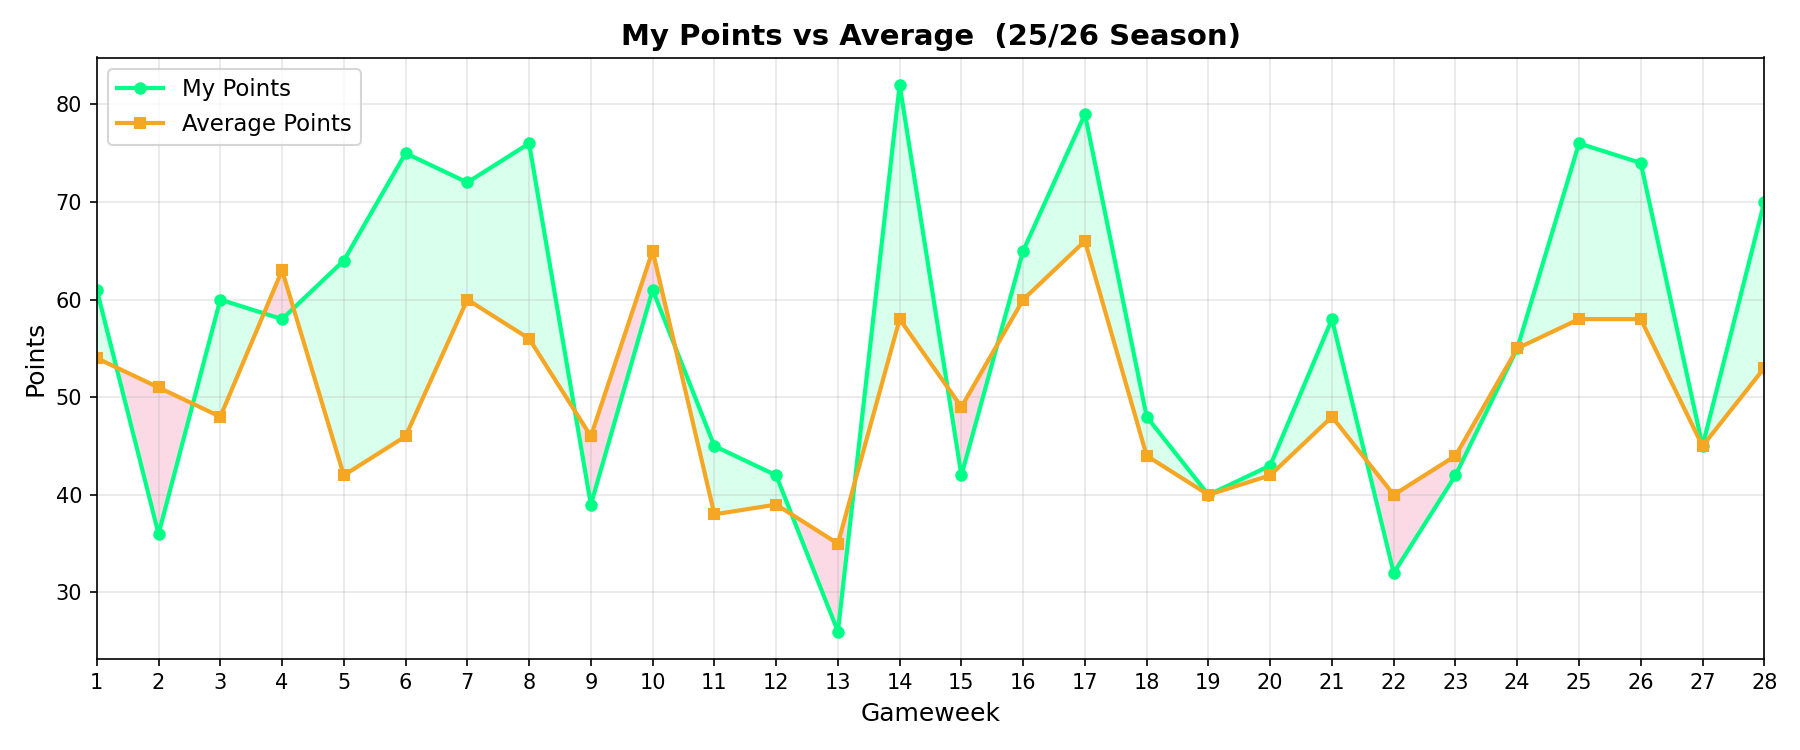
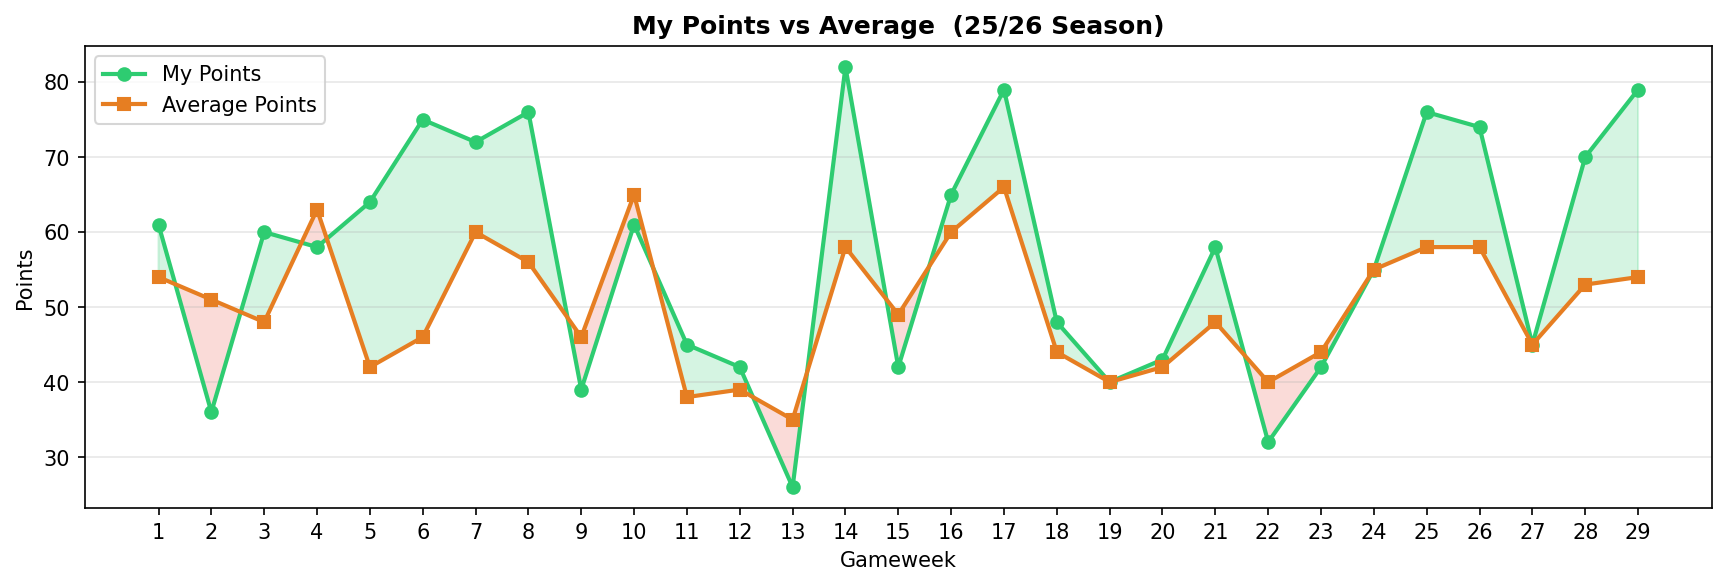
autopilot

Changed region(s): [[0.0, 0.0307, 1.0, 0.9829], [0.0307, 0.2457, 0.0614, 0.3072], [0.0307, 0.7679, 0.0614, 0.7986]]

diff --git a/docker/dek/dek.py b/docker/dek/dek.py
@@ -157,7 +157,7 @@ async def main():
     #
     # s = setup(data=data, target='roi', session_id=7177,ignore_features=['first_name', 'second_name', 'team_name', 'team', 'element_type'])
     # et_retrain = create_model('et')
-    # tuned_et = tune_model(et_retrain)
+    # tuned_et = tune_model(et_retrain)I do
     # final_retrained_model = finalize_model(tuned_et)
     #
     # save_model(final_retrained_model, 'Final et Model ROI-Target - Retrained')
@@ -168,85 +168,78 @@ async def main():
     # print(status)
     # print(info)
     # print(stats)
-    game_week = await fpl.helpers.get_upcoming_gameweek()
-    prev_game_week = game_week - 1
-    # game_week = 26
-    await orchestrator.track_performance(fpl, game_week)
+    await orchestrator.update_performance(fpl)
 
     # TODO retrain every 5 gameweeks
-    logger.info("upcoming Game Week: {}".format(game_week))
-    try:
-        await asyncio.wait_for(fpl.helpers.get_data(game_week), timeout=60.0)
-        unseen_data = pd.read_csv(f"datastore/current/FPL_data_{game_week}.csv")
-        print(unseen_data.head(10))
-        predictions = predict_model(roi_model, data=unseen_data).sort_values(
-            "prediction_label", ascending=False
-        )
-
-        predictions = predictions.head(250)
-
-        avg_ppg = predictions["points_per_game"].mean()
-        avg_roi = predictions["roi"].mean()
-        avg_proi = predictions["prediction_label"].mean()
-
-        predictions = predictions[
-            (predictions["points_per_game"] >= avg_ppg)
-            & (predictions["roi"] >= avg_roi)
-            & (predictions["prediction_label"] >= avg_proi)
-        ]
-
-        logger.info("Predictions pool on unseen data: %d", predictions.shape[0])
-        predicted_players = predictions.to_dict("records")
-
-        for i in predicted_players:
-            convert = await fpl.get_current_player(player=i, convert_hist=False)
-            predictions_to_player_obj.append(convert)
-
-        logger.info("upcoming Game Week: {}".format(game_week))
-        info = await fpl.get_manager_info_for_gw(gw=prev_game_week)
-        logger.info(
-            "(previous) Game Week {} Manager info: {}".format(prev_game_week, info)
-        )
-        gw_stats = await fpl.get_game_week_stats(gw=prev_game_week)
-        logger.info(
-            "(previous) Game Week {} Stats: {}".format(prev_game_week, gw_stats)
-        )
-        logger.info(
-            "U_Highest {}".format(abs(info["points"] - gw_stats["highest_score"]))
-        )
-        logger.info(
-            "U_Average {}".format(abs(info["points"] - gw_stats["average_entry_score"]))
-        )
-
-        if fpl.logged_in():
-            user = await fpl.get_user()
-            my_players = await fpl.get_users_players(user)
-            for i in my_players:
-                player = await fpl.get_current_player(player_id=i["element"])
-                MY_TEAM.append(player)
-            MY_TEAM.sort(key=lambda x: x.roi())
-            analysis = fpl.helpers.get_team_analysis(MY_TEAM, metrics=metrics)
-            metric_stats = analysis["metric_stats"]
-            res = analysis["no_position"]
-            print(res)
-
-            for i in res[0:4]:
-                candidates = fpl.helpers.find_valid_replacement(
-                    player_out=i,
-                    player_pool=predictions_to_player_obj,
-                    current_team=MY_TEAM,
-                    metrics=metrics,
-                    metric_stats=metric_stats,
-                )
-                logger.info("Weak player: %s", i)
-                logger.info("Number of potential candidates: %d", len(candidates))
-                for i in candidates:
-                    logger.info("Candidate: %s", i["player"])
-        logger.info("Done work flow")
-        await session.close()
-    except Exception as err:
-        "Cant get current data from FPL"
-        logger.error("Error in main workflow: %s", err)
+    # logger.info("upcoming Game Week: {}".format(gameweek))
+    # try:
+    #     await asyncio.wait_for(fpl.helpers.get_data(gameweek), timeout=60.0)
+    #     unseen_data = pd.read_csv(f"datastore/current/FPL_data_{gameweek}.csv")
+    #     print(unseen_data.head(10))
+    #     predictions = predict_model(roi_model, data=unseen_data).sort_values(
+    #         "prediction_label", ascending=False
+    #     )
+    #
+    #     predictions = predictions.head(250)
+    #
+    #     avg_ppg = predictions["points_per_game"].mean()
+    #     avg_roi = predictions["roi"].mean()
+    #     avg_proi = predictions["prediction_label"].mean()
+    #
+    #     predictions = predictions[
+    #         (predictions["points_per_game"] >= avg_ppg)
+    #         & (predictions["roi"] >= avg_roi)
+    #         & (predictions["prediction_label"] >= avg_proi)
+    #     ]
+    #
+    #     logger.info("Predictions pool on unseen data: %d", predictions.shape[0])
+    #     predicted_players = predictions.to_dict("records")
+    #
+    #     for i in predicted_players:
+    #         convert = await fpl.get_current_player(player=i, convert_hist=False)
+    #         predictions_to_player_obj.append(convert)
+    #
+    #     logger.info("upcoming Game Week: {}".format(gameweek))
+    #     info = await fpl.get_manager_info_for_gw(gw=prev_gameweek)
+    #     logger.info(
+    #         "(previous) Game Week {} Manager info: {}".format(prev_gameweek, info)
+    #     )
+    #     gw_stats = await fpl.get_gameweek_stats(gw=prev_gameweek)
+    #     logger.info("(previous) Game Week {} Stats: {}".format(prev_gameweek, gw_stats))
+    #     logger.info(
+    #         "U_Highest {}".format(abs(info["points"] - gw_stats["highest_score"]))
+    #     )
+    #     logger.info(
+    #         "U_Average {}".format(abs(info["points"] - gw_stats["average_entry_score"]))
+    #     )
+    #
+    #     if fpl.logged_in():
+    #         user = await fpl.get_user()
+    #         my_players = await fpl.get_users_players(user)
+    #         for i in my_players:
+    #             player = await fpl.get_current_player(player_id=i["element"])
+    #             MY_TEAM.append(player)
+    #         MY_TEAM.sort(key=lambda x: x.roi())
+    #         res = fpl.helpers.get_team_analysis(MY_TEAM, metrics=metrics)
+    #         res = res["no_position"]
+    #         print(res)
+    #
+    #         for i in res[0:4]:
+    #             candidates = fpl.helpers.find_valid_replacement(
+    #                 player_out=i,
+    #                 player_pool=predictions_to_player_obj,
+    #                 current_team=MY_TEAM,
+    #                 metrics=metrics,
+    #             )
+    #             logger.info("Weak player: %s", i)
+    #             logger.info("Number of potential candidates: %d", len(candidates))
+    #             for i in candidates:
+    #                 logger.info("Candidate: %s", i["player"])
+    #     logger.info("Done work flow")
+    #     await session.close()
+    # except Exception as err:
+    #     "Cant get current data from FPL"
+    #     logger.error("Error in main workflow: %s", err)
     await session.close()
 
 

diff --git a/scripts/update_readme_chart.py b/scripts/update_readme_chart.py
@@ -1,0 +1,156 @@
+"""Reads performance CSV, regenerates the chart and updates README stats."""
+
+import csv
+import re
+import sys
+from pathlib import Path
+
+import matplotlib.pyplot as plt
+import numpy as np
+
+REPO_ROOT = Path(__file__).resolve().parent.parent
+CSV_PATH = REPO_ROOT / "performance_weekly_performance.csv"
+CHART_PATH = REPO_ROOT / "assets" / "performance_chart.png"
+README_PATH = REPO_ROOT / "README.md"
+
+
+def load_csv(path: Path) -> list[dict]:
+    """Load CSV rows as list of dicts."""
+    assert path.exists(), f"CSV not found: {path}"
+    with open(path, newline="", encoding="utf-8") as fh:
+        rows = list(csv.DictReader(fh))
+    assert len(rows) > 0, "CSV is empty"
+    return rows
+
+
+def compute_stats(rows: list[dict]) -> dict:
+    """Derive summary stats from CSV rows."""
+    gws = [int(r["game_week"]) for r in rows]
+    my_pts = [int(r["my_points"]) for r in rows]
+    avg_pts = [int(r["average_points"]) for r in rows]
+    deltas = [int(r["delta_vs_avg"]) for r in rows]
+    total = int(rows[-1]["total_points"])
+
+    beat_or_matched = sum(1 for d in deltas if d >= 0)
+    cumulative_delta = total - sum(avg_pts)
+
+    best_idx = int(np.argmax(my_pts))
+    worst_idx = int(np.argmin(my_pts))
+
+    stats = {
+        "num_gws": len(gws),
+        "total_points": total,
+        "cumulative_delta": cumulative_delta,
+        "beat_count": beat_or_matched,
+        "beat_pct": round(100 * beat_or_matched / len(gws)),
+        "best_gw": gws[best_idx],
+        "best_pts": my_pts[best_idx],
+        "best_avg": avg_pts[best_idx],
+        "worst_gw": gws[worst_idx],
+        "worst_pts": my_pts[worst_idx],
+        "worst_avg": avg_pts[worst_idx],
+    }
+    assert stats["num_gws"] == len(rows), "GW count mismatch"
+    assert stats["total_points"] > 0, "Total points must be positive"
+    return stats
+
+
+def generate_chart(rows: list[dict], dest: Path) -> None:
+    """Create the performance line chart matching existing style."""
+    gws = [int(r["game_week"]) for r in rows]
+    my_pts = [int(r["my_points"]) for r in rows]
+    avg_pts = [int(r["average_points"]) for r in rows]
+
+    my_arr = np.array(my_pts, dtype=float)
+    avg_arr = np.array(avg_pts, dtype=float)
+
+    fig, ax = plt.subplots(figsize=(14, 4))
+
+    ax.plot(
+        gws, my_pts, color="#2ecc71", marker="o",
+        linewidth=2, markersize=6, label="My Points", zorder=3,
+    )
+    ax.plot(
+        gws, avg_pts, color="#e67e22", marker="s",
+        linewidth=2, markersize=6, label="Average Points", zorder=3,
+    )
+
+    ax.fill_between(
+        gws, my_arr, avg_arr,
+        where=(my_arr >= avg_arr),
+        interpolate=True, alpha=0.2, color="#2ecc71",
+    )
+    ax.fill_between(
+        gws, my_arr, avg_arr,
+        where=(my_arr < avg_arr),
+        interpolate=True, alpha=0.2, color="#e74c3c",
+    )
+
+    ax.set_xlabel("Gameweek")
+    ax.set_ylabel("Points")
+    ax.set_title("My Points vs Average  (25/26 Season)", fontweight="bold")
+    ax.set_xticks(gws)
+    ax.legend(loc="upper left")
+    ax.grid(axis="y", alpha=0.3)
+
+    dest.parent.mkdir(parents=True, exist_ok=True)
+    fig.savefig(dest, dpi=150, bbox_inches="tight")
+    plt.close(fig)
+    assert dest.exists(), f"Chart not saved to {dest}"
+
+
+def update_readme(stats: dict, path: Path) -> None:
+    """Replace the performance section in the README."""
+    assert path.exists(), f"README not found: {path}"
+    text = path.read_text(encoding="utf-8")
+
+    sign = "+" if stats["cumulative_delta"] >= 0 else ""
+    new_section = (
+        f"## Model Performance (25/26 Season - "
+        f"{stats['num_gws']} GWs)\n"
+        f"\n"
+        f"![My Points vs Average](assets/performance_chart.png)\n"
+        f"\n"
+        f"| Metric | Value |\n"
+        f"|---|---|\n"
+        f"| Total Points | {stats['total_points']} |\n"
+        f"| Cumulative Points Above Average | "
+        f"{sign}{stats['cumulative_delta']} |\n"
+        f"| Gameweeks Beat or Matched Average | "
+        f"{stats['beat_count']} / {stats['num_gws']} "
+        f"({stats['beat_pct']}%) |\n"
+        f"| Best Gameweek | GW{stats['best_gw']}: "
+        f"{stats['best_pts']} pts (avg {stats['best_avg']}) |\n"
+        f"| Worst Gameweek | GW{stats['worst_gw']}: "
+        f"{stats['worst_pts']} pts (avg {stats['worst_avg']}) |"
+    )
+
+    pattern = re.compile(
+        r"## Model Performance.*?\| Worst Gameweek \|[^\n]+",
+        re.DOTALL,
+    )
+    assert pattern.search(text), "Could not find performance section"
+    updated = pattern.sub(new_section, text)
+    assert updated != text, "README was not changed"
+
+    path.write_text(updated, encoding="utf-8")
+
+
+def main() -> int:
+    """Entry point."""
+    rows = load_csv(CSV_PATH)
+    stats = compute_stats(rows)
+    generate_chart(rows, CHART_PATH)
+    update_readme(stats, README_PATH)
+    print(
+        f"Updated chart and README for "
+        f"{stats['num_gws']} gameweeks "
+        f"({stats['total_points']} total pts, "
+        f"{'+' if stats['cumulative_delta'] >= 0 else ''}"
+        f"{stats['cumulative_delta']} vs avg)"
+    )
+    return 0
+
+
+if __name__ == "__main__":
+    sys.exit(main())

diff --git a/docker/dek/orchestrator.py b/docker/dek/orchestrator.py
@@ -189,28 +189,32 @@ async def execute_or_log_transfers(fpl, recommendations):
     return transfer_log
 
 
-async def track_performance(fpl, game_week):
-    """Fetch and persist performance for all game weeks up to game_week.
+async def update_performance(fpl):
+    """Fetch and persist performance for all finished game weeks.
 
-    Reads CSV once from GCS, skips tracked game weeks, appends new rows,
-    writes once. Max 2 GCS calls per invocation.
+    Determines the most recent finished game week via the API,
+    reads CSV once from GCS, skips already-tracked weeks, appends
+    new rows, writes once.
 
     Args:
         fpl: Authenticated FPL instance.
-        game_week: Current/upcoming game week (tracks 1 through game_week - 1).
 
     Returns:
         Number of new game weeks appended.
     """
-    if game_week <= 0:
-        logger.info("Invalid game week: %d, skipping.", game_week)
+    latest_gw = await fpl.helpers.get_upcoming_gameweek() - 1
+    assert latest_gw >= 0, "Upcoming game week must be at least 1"
+
+    if latest_gw == 0:
+        logger.info("No finished game weeks yet, skipping.")
         return 0
 
     df = utils.read_performance_from_gcs(FPL_BUCKET, PERFORMANCE_BLOB)
     tracked = set(df["game_week"].values) if not df.empty else set()
+    assert isinstance(tracked, set), "Tracked game weeks must be a set"
 
     new_rows = []
-    for gw in range(1, game_week):
+    for gw in range(1, latest_gw + 1):
         if gw in tracked:
             logger.info("GW%d already tracked, skipping.", gw)
             continue
@@ -261,9 +265,9 @@ async def main():
         # Phase 6: Execute or log transfers
         transfer_log = await execute_or_log_transfers(fpl, recommendations)
 
-        # Phase 7: Track performance (non-fatal)
+        # Phase 7: Update performance (non-fatal)
         try:
-            await track_performance(fpl, game_week)
+            await update_performance(fpl)
         except Exception as e:
             logger.warning("Performance tracking failed (non-fatal): %s", e)
 

diff --git a/README.md b/README.md
@@ -12,15 +12,15 @@ An autonomous FPL bot that manages transfers, selects lineups, and picks captain
 - **Z-Score Normalization** - Each metric (points, goals, assists, minutes, ROI, PPG) is standardized relative to the squad mean/std, making cross-metric comparison possible
 - **Simple Additive Weighting (SAW)** - Position-specific weights are applied to z-scores and summed into a single value, so a midfielder is judged differently from a goalkeeper
 
-## Model Performance (25/26 Season - 28 GWs)
+## Model Performance (25/26 Season - 29 GWs)
 
 ![My Points vs Average](assets/performance_chart.png)
 
 | Metric | Value |
 |---|---|
-| Total Points | 1530 |
-| Cumulative Points Above Average | +113 |
-| Gameweeks Beat or Matched Average | 20 / 28 (71%) |
+| Total Points | 1609 |
+| Cumulative Points Above Average | +152 |
+| Gameweeks Beat or Matched Average | 21 / 29 (72%) |
 | Best Gameweek | GW14: 82 pts (avg 58) |
 | Worst Gameweek | GW13: 26 pts (avg 35) |
 
